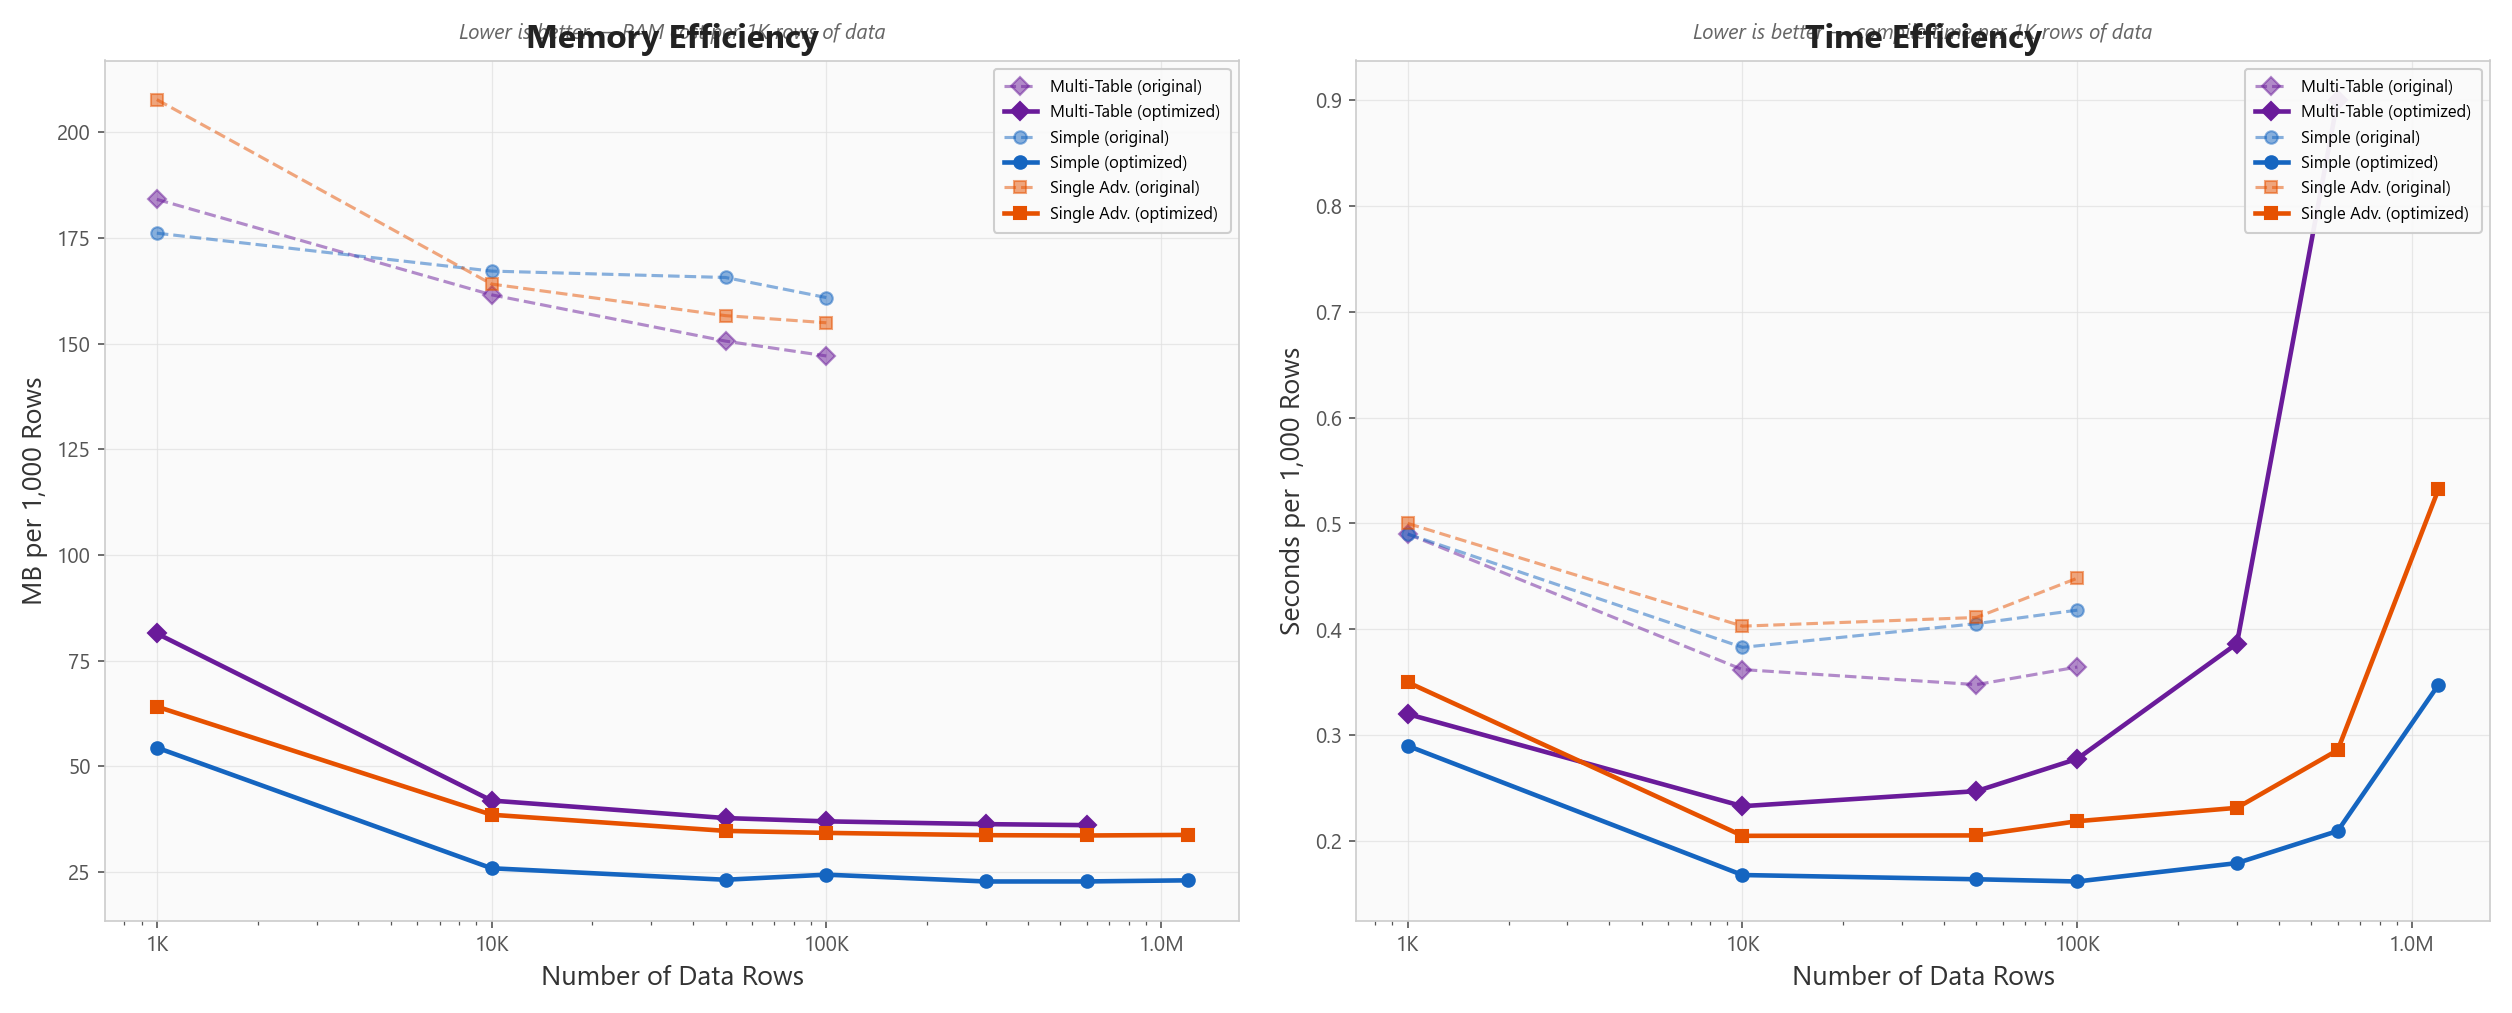
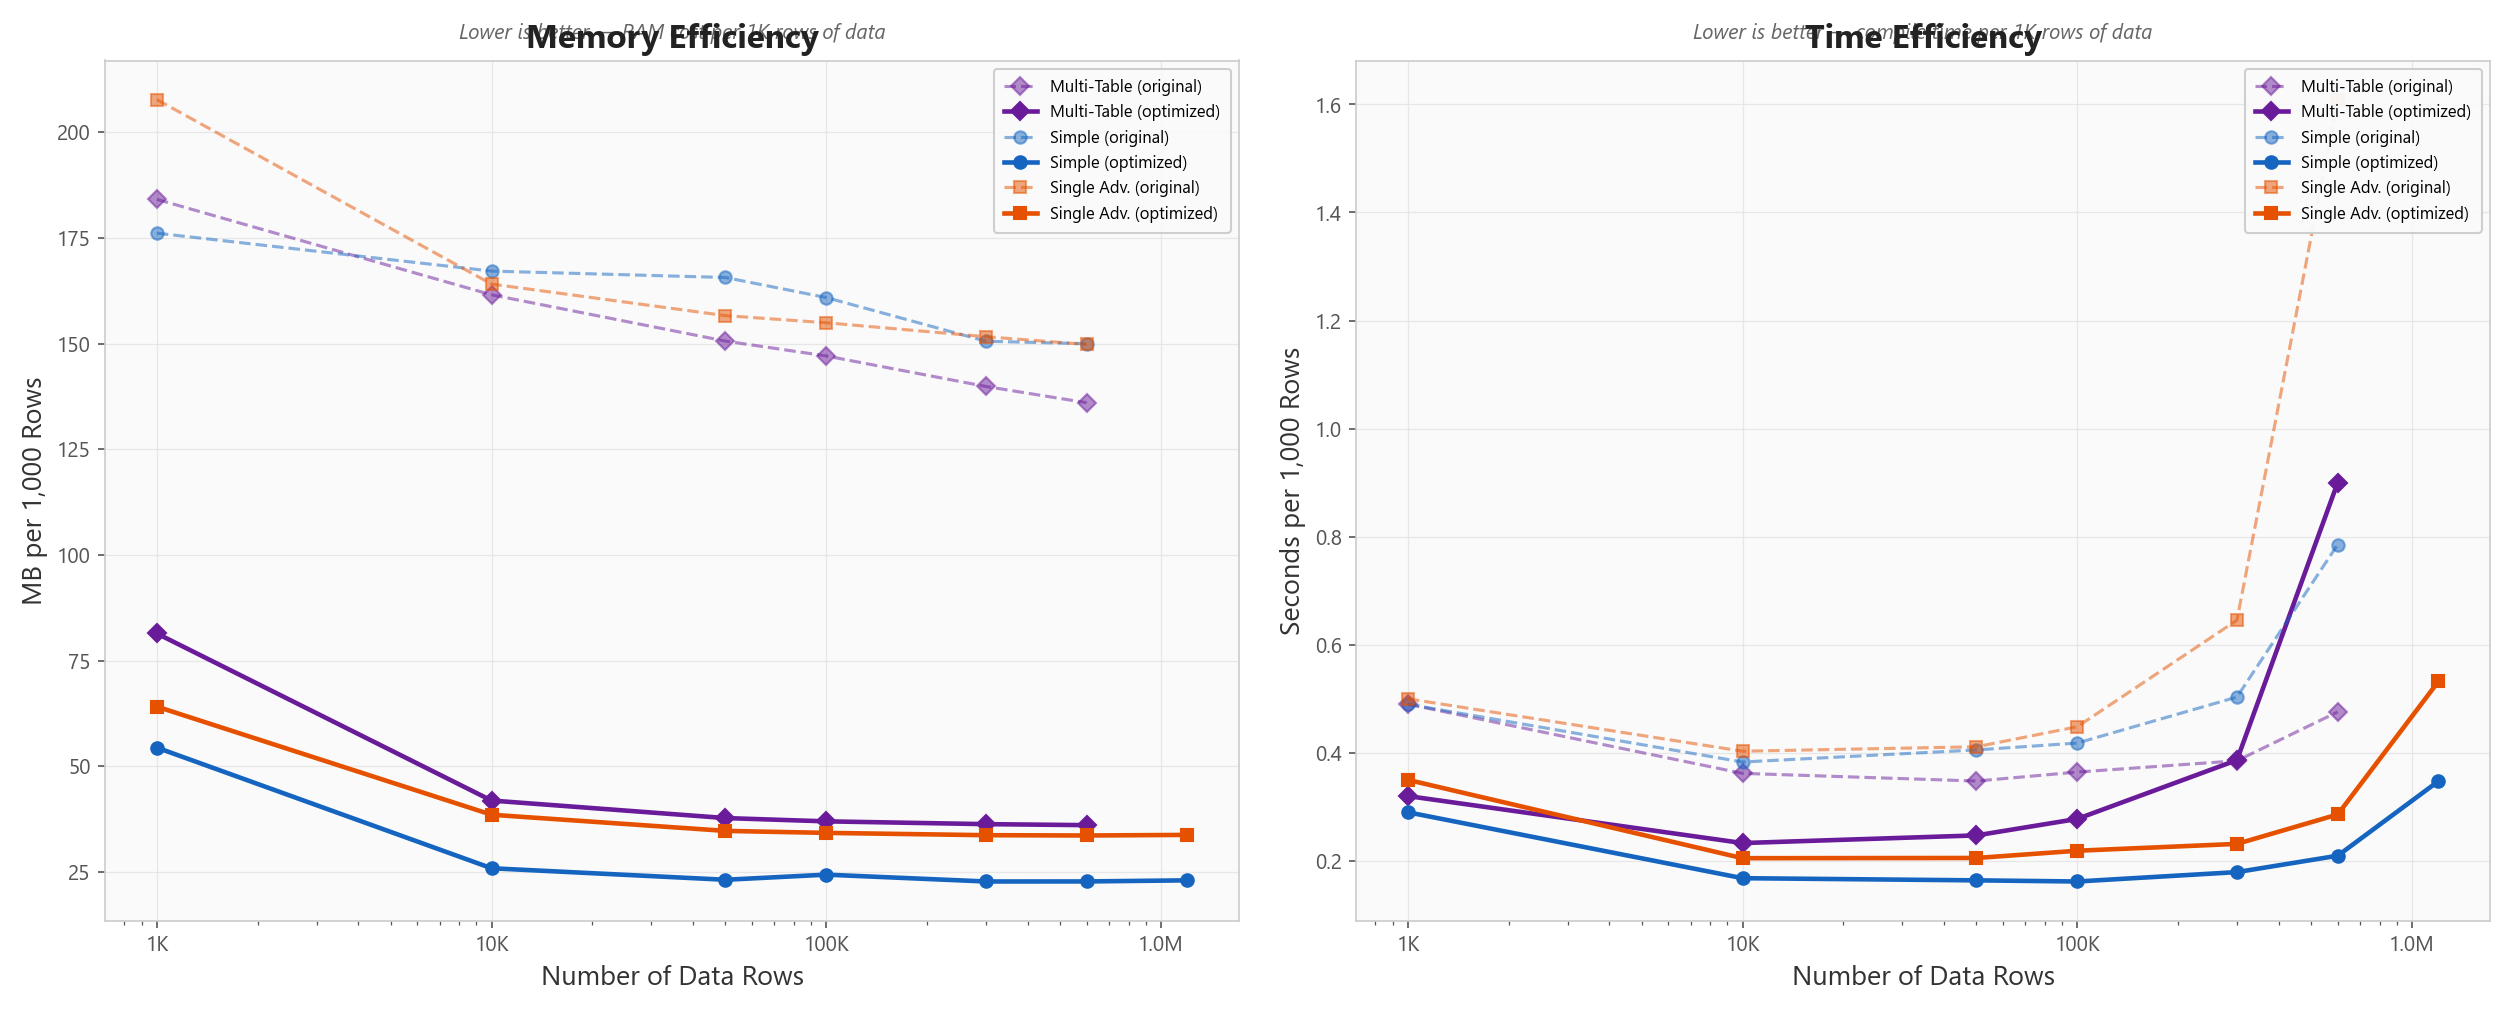
benchmarks: add original binary results at 300K/600K rows and regenerate graphs
Ran the original Typst binary at 300K and 600K rows for all 3 templates
to get official comparison numbers. Updated benchmark_results.json with
6 new data points (original at 300K/600K x 3 templates), regenerated
all 8 graphs, and updated documentation with measured results.

Key findings at 600K rows:
- Original: 82-90 GB RAM, 285-965s
- Optimized: 14-22 GB RAM, 126-540s
- RAM reduction: 73-85% (consistent with smaller scales)
- Speedup: up to 5.6x for single-table-advanced

diff --git a/benchmarks/run_benchmarks.py b/benchmarks/run_benchmarks.py
@@ -70,7 +70,7 @@ QUICK_SIZES = [100, 1_000, 10_000, 50_000, 100_000]
 
 # Original binary can't handle very large documents (runs out of memory / too slow).
 # We set per-size timeouts and skip the original for very large sizes.
-ORIGINAL_MAX_SIZE = 300_000    # Don't run original above this
+ORIGINAL_MAX_SIZE = 600_000    # Don't run original above this
 TIMEOUT_PER_SIZE = {
     100: 60,
     1_000: 120,

diff --git a/BENCHMARKS.md b/BENCHMARKS.md
@@ -15,7 +15,7 @@ At **100,000 rows** (the largest size practical for both binaries):
 | **Multi-Table (Advanced)** — Peak RAM | 14,706 MB | 3,696 MB | **75% reduction** |
 | **Multi-Table (Advanced)** — Time | 36.4s | 27.8s | **1.3x faster** |
 
-The optimized binary scales to **1.2 million rows** (producing 3+ GB PDFs). The original binary can handle 300K rows but requires ~45 GB of RAM.
+At **600,000 rows**, the original binary requires **~90 GB of RAM** while the optimized binary uses **14-22 GB** — the same 75-85% reduction. Speedup reaches **5.6x** for single-table-advanced at this scale. The optimized binary further scales to **1.2 million rows** (producing 3+ GB PDFs).
 
 ## Overview
 
@@ -89,22 +89,31 @@ The optimized binary scales to 1.2M rows, producing 3+ GB PDFs. Scaling is appro
 | Multi-Table | 50,000 | 7,528 | 1,887 | 75% | 17.39s | 12.36s | 1.4x |
 | Multi-Table | 100,000 | 14,706 | 3,696 | 75% | 36.44s | 27.77s | 1.3x |
 
-### Large Scale (300K+ rows)
+### Large Scale (300K–600K rows, Original vs Optimized)
+
+| Template | Rows | Orig RAM (MB) | Opt RAM (MB) | RAM Saved | Orig Time | Opt Time | Speedup |
+|----------|------|---------------|--------------|-----------|-----------|----------|---------|
+| Simple | 300,000 | 45,160 | 6,819 | 85% | 151.0s | 53.8s | 2.8x |
+| Simple | 600,000 | 89,972 | 13,645 | 85% | 471.3s | 125.8s | 3.7x |
+| Single Adv. | 300,000 | 45,482 | 10,105 | 78% | 193.6s | 69.4s | 2.8x |
+| Single Adv. | 600,000 | 89,862 | 20,167 | 78% | 965.4s | 171.6s | 5.6x |
+| Multi-Table | 300,000 | 41,949 | 10,889 | 74% | 115.6s | 116.0s | 1.0x |
+| Multi-Table | 600,000 | 81,591 | 21,636 | 73% | 285.5s | 540.1s | 0.5x |
+
+### Optimized-Only (1.2M rows)
 
 | Template | Rows | Optimized RAM (MB) | Optimized Time | PDF Size |
 |----------|------|--------------------|----------------|----------|
-| Simple | 300,000 | 6,819 | 53.8s | 749 MB |
-| Simple | 600,000 | 13,645 | 125.8s | 1,502 MB |
 | Simple | 1,200,000 | 27,601 | 417.1s | 3,087 MB |
-| Single Adv. | 300,000 | 10,105 | 69.4s | 923 MB |
-| Single Adv. | 600,000 | 20,167 | 171.6s | 1,849 MB |
 | Single Adv. | 1,200,000 | 40,502 | 638.7s | 3,741 MB |
-| Multi-Table | 300,000 | 10,889 | 116.0s | 917 MB |
-| Multi-Table | 600,000 | 21,636 | 540.1s | 1,838 MB |
 
-For reference, the original binary at 300K rows requires ~45 GB of RAM (measured separately via `profile_final.py`). It was not included in the formal benchmark suite at this scale due to the extreme memory requirements.
+The original binary was not tested at 1.2M rows due to projected memory requirements (~180 GB).
 
-> **Note on scaling:** Time scales approximately linearly from 300K to 600K rows (~2x), but super-linearly from 600K to 1.2M rows (~3.3x for simple, ~3.7x for advanced). This is likely due to memory pressure effects — at 27-40 GB RSS, the OS memory manager introduces overhead. Multi-Table at 600K rows already shows this effect (540s vs the expected ~230s), because each of the ~12,000 separate table elements adds overhead.
+> **Note on scaling:** For the original binary, RAM scales approximately linearly (~2x from 300K→600K), peaking at ~90 GB for simple/advanced tables at 600K rows. Time scaling is super-linear for single-table-advanced (5x from 300K→600K) due to the convergence loop operating over very large pages.
+>
+> For the optimized binary, RAM and time scale approximately linearly from 300K to 600K rows. Beyond 600K to 1.2M rows, time grows super-linearly (~3.3x for simple, ~3.7x for advanced) due to memory pressure effects at 27-40 GB RSS.
+>
+> Multi-Table at 600K rows shows an anomaly: the optimized binary is **slower** than the original (540s vs 285s). This is because the multi-table template creates ~12,000 separate table elements, and the optimized binary's periodic comemo eviction destroys cross-table cache hits, causing redundant recomputation. The memory savings (73%) remain substantial despite the time regression.
 >
 > Multi-Table at 1.2M rows was excluded — it requires ~40+ GB RAM and PDF serialization becomes impractical with ~25,000 separate table elements.
 

diff --git a/README.md b/README.md
@@ -9,7 +9,7 @@
     <img alt="RAM Reduction" src="https://img.shields.io/badge/RAM_reduction-up_to_85%25-2E7D32?style=for-the-badge">
   </a>
   <a href="#benchmark-results">
-    <img alt="Speedup" src="https://img.shields.io/badge/speedup-up_to_2.6x-1565C0?style=for-the-badge">
+    <img alt="Speedup" src="https://img.shields.io/badge/speedup-up_to_5.6x-1565C0?style=for-the-badge">
   </a>
   <a href="BENCHMARKS.md">
     <img alt="Benchmarks" src="https://img.shields.io/badge/full_benchmarks-view_report-E65100?style=for-the-badge">
@@ -44,7 +44,7 @@ All optimizations preserve **byte-identical PDF output** — verified by automat
 
 Tested on Windows 11, Intel Core i9-14900K (32 threads), 128 GB DDR5. Three table templates of increasing complexity, from 100 to 1.2M rows.
 
-### At 100,000 Rows (largest size both binaries handle)
+### At 100,000 Rows
 
 <p align="center">
   <img alt="Summary" src="benchmarks/summary.png" width="800">
@@ -64,17 +64,20 @@ Tested on Windows 11, Intel Core i9-14900K (32 threads), 128 GB DDR5. Three tabl
 
 ### Scaling Beyond 100K Rows
 
-The original binary can technically handle 300K rows but requires ~45 GB of RAM. The optimized binary compiles the same documents in a fraction of the memory:
+Both binaries were tested at 300K and 600K rows. The original binary requires **45-90 GB of RAM** at these scales, while the optimized binary stays under 22 GB:
 
-| Rows | Template | Original RAM | Optimized RAM | Reduction | Optimized Time |
-|------|----------|-------------|--------------|-----------|---------------|
-| 300K | Simple | 45.1 GB | **6.8 GB** | **85%** | 54s |
-| 300K | Single Adv. | 45.5 GB | **10.1 GB** | **78%** | 69s |
-| 300K | Multi-Table | — | **10.9 GB** | — | 116s |
-| 600K | Simple | — | **13.6 GB** | — | 126s |
-| 600K | Single Adv. | — | **20.2 GB** | — | 172s |
+| Rows | Template | Original RAM | Optimized RAM | Reduction | Orig Time | Opt Time | Speedup |
+|------|----------|-------------|--------------|-----------|-----------|----------|---------|
+| 300K | Simple | 45.2 GB | **6.8 GB** | **85%** | 151s | 54s | **2.8x** |
+| 300K | Single Adv. | 45.5 GB | **10.1 GB** | **78%** | 194s | 69s | **2.8x** |
+| 300K | Multi-Table | 41.9 GB | **10.9 GB** | **74%** | 116s | 116s | 1.0x |
+| 600K | Simple | 90.0 GB | **13.6 GB** | **85%** | 471s | 126s | **3.7x** |
+| 600K | Single Adv. | 89.9 GB | **20.2 GB** | **78%** | 965s | 172s | **5.6x** |
+| 600K | Multi-Table | 81.6 GB | **21.6 GB** | **73%** | 285s | 540s | 0.5x |
 
-> **Note:** Scaling is approximately linear up to 600K rows. Beyond that, time grows super-linearly (e.g., 1.2M rows takes ~7 min for simple tables, ~11 min for advanced) due to memory pressure effects at 27-40 GB RSS. Multi-table documents scale less efficiently because each department group creates a separate table element.
+The optimized binary also scales to **1.2M rows** (producing 3+ GB PDFs at 28-40 GB RAM), well beyond practical limits for the original binary.
+
+> **Note:** Memory reduction percentages (73-85%) remain consistent across all scales. The multi-table template shows a time regression at 600K rows because the optimized binary's periodic cache eviction destroys cross-table cache hits across ~12,000 separate table elements. See [BENCHMARKS.md](BENCHMARKS.md) for full analysis.
 
 <p align="center">
   <a href="BENCHMARKS.md"><strong>View full benchmark report with all graphs and methodology &rarr;</strong></a>
